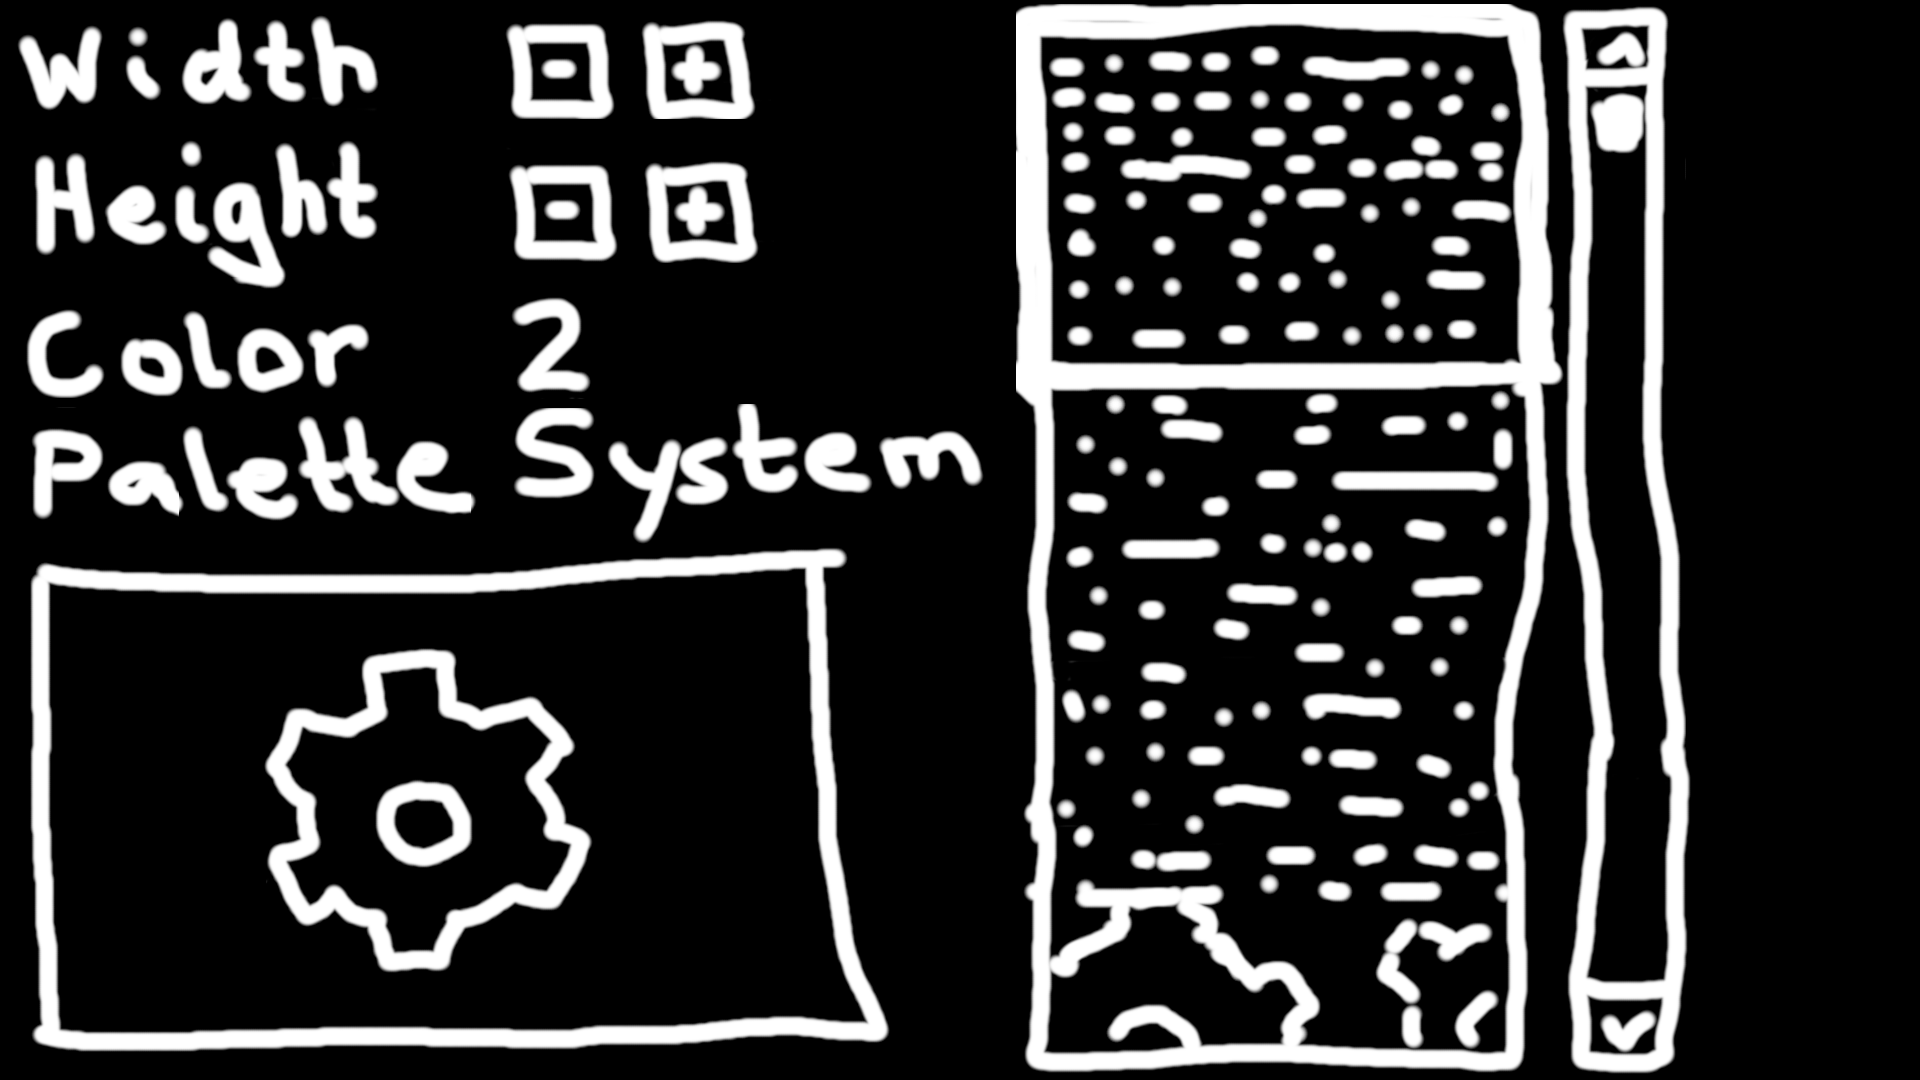
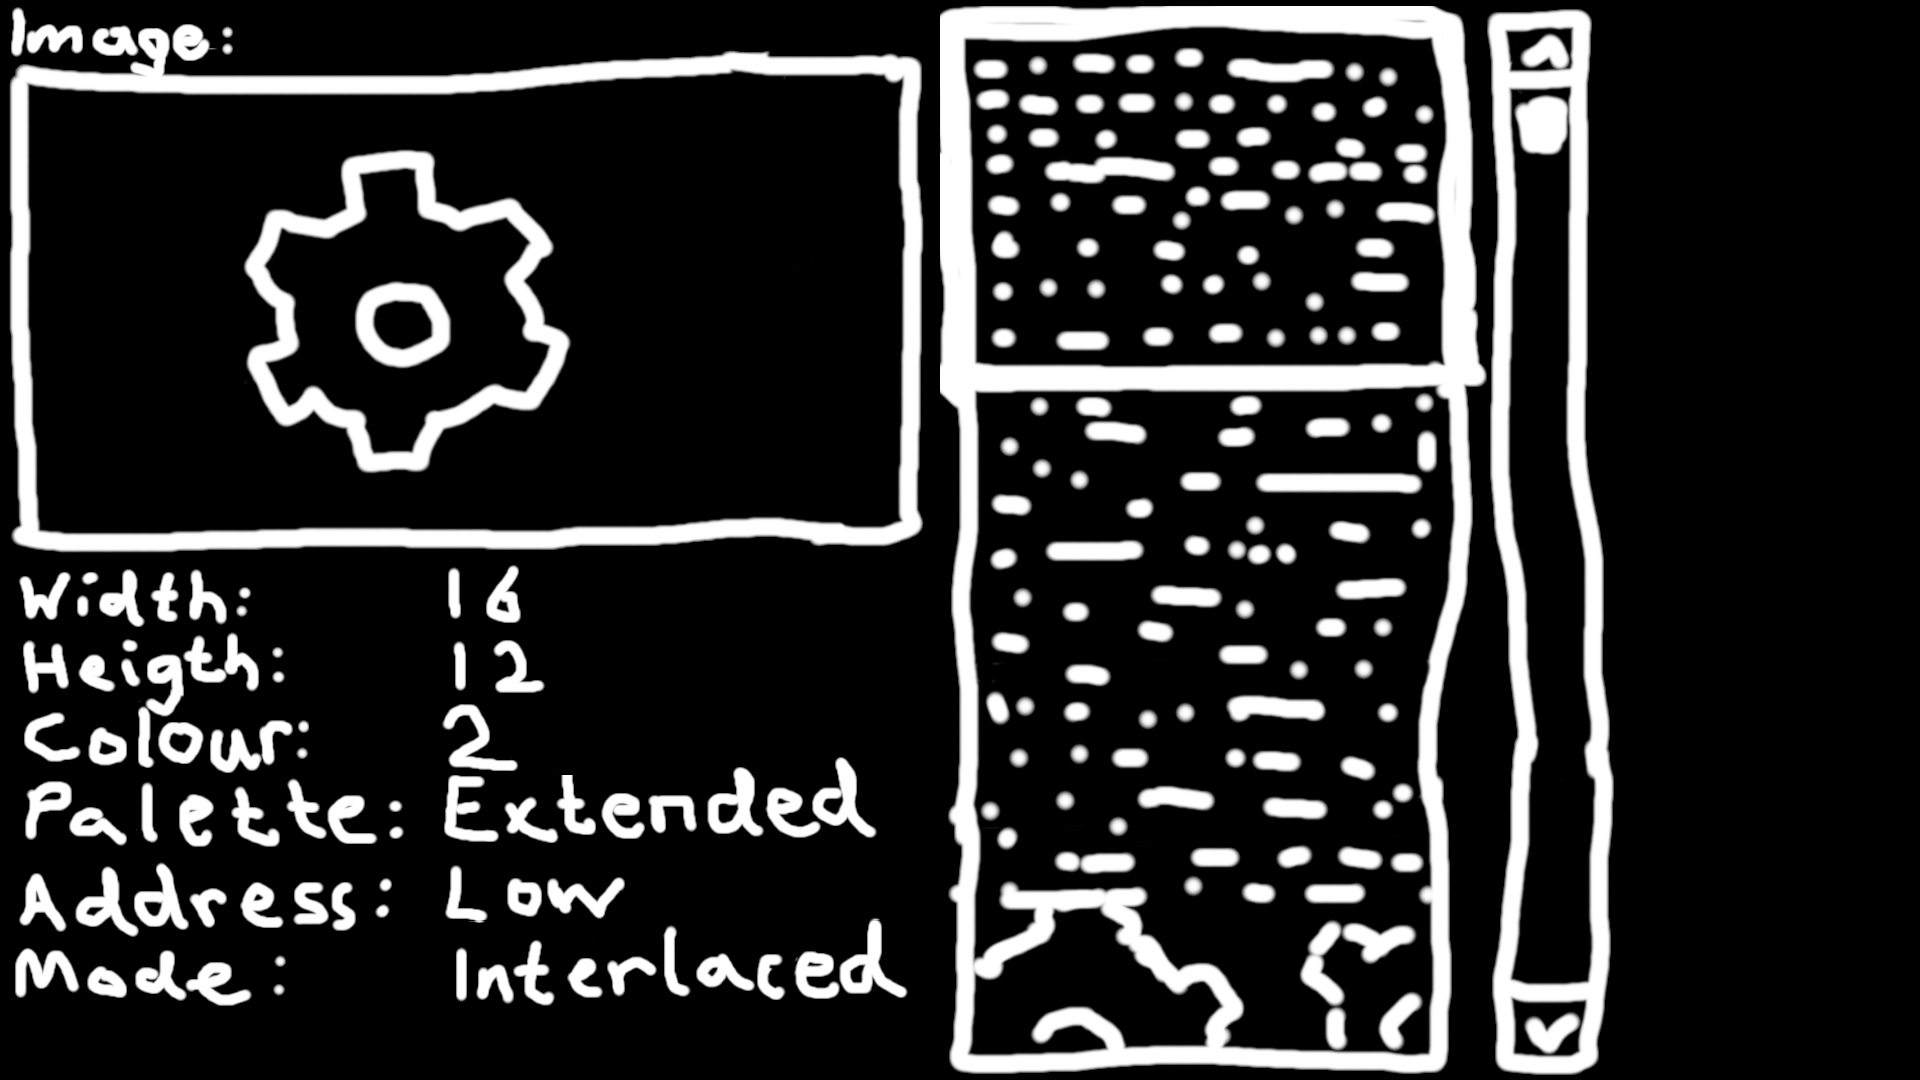
Changes for the minigame and supporting gui for rolling states that has image names more than one character long

diff --git a/RallyTheRobots/GUI/Common/ButtonArea.cs b/RallyTheRobots/GUI/Common/ButtonArea.cs
@@ -11,7 +11,6 @@ namespace RallyTheRobots
         internal InputChecker _inputChecker;
         protected ButtonAreaImage _buttonAreaImage = new ButtonAreaImage();
         protected RollingState _rollingState = new RollingState();
-        protected RollingState _rollingState2 = new RollingState();
         public Vector2 Position;
         public int SliderBorderLeft;
         public int SliderBorderRight;
@@ -56,26 +55,6 @@ namespace RallyTheRobots
         {
             _rollingState.PreviousState();
         }
-        public virtual void AddRollingState2(string rollingState)
-        {
-            _rollingState2.AddState(rollingState);
-        }
-        public virtual string GetCurrentRollingState2()
-        {
-            return _rollingState2.GetCurrentState();
-        }
-        public virtual void SetCurrentRollingState2(string rollingState)
-        {
-            _rollingState2.SetCurrentState(rollingState);
-        }
-        public virtual void NextRollingState2()
-        {
-            _rollingState2.NextState();
-        }
-        public virtual void PreviousRollingState2()
-        {
-            _rollingState2.PreviousState();
-        }
         public virtual void SetButtonSelectAction(ButtonAction buttonAction)
         {
             _buttonSelectAction = buttonAction;
@@ -96,23 +75,6 @@ namespace RallyTheRobots
             if (_buttonAreaImage.ReferencingRollingStateAsCharacterImage())
             {
                 foreach (string stateName in _rollingState.ToArray())
-                {
-                    foreach (char characterImageName in stateName)
-                    {
-                        _buttonAreaImage.AddRollingStatesAsImages(characterImageName.ToString());
-                    }
-                }
-            }
-            if (_buttonAreaImage.ReferencingRollingState2AsImage())
-            {
-                foreach (string stateName in _rollingState2.ToArray())
-                {
-                    _buttonAreaImage.AddRollingStatesAsImages(stateName);
-                }
-            }
-            if (_buttonAreaImage.ReferencingRollingState2AsCharacterImage())
-            {
-                foreach (string stateName in _rollingState2.ToArray())
                 {
                     foreach (char characterImageName in stateName)
                     {
@@ -162,7 +124,7 @@ namespace RallyTheRobots
         }
         public virtual void Draw(GameTime gameTime, GraphicsDevice graphicsDevice, GameSettings gameSettings, SpriteBatch spriteBatch, Vector2 offset)
         {
-            _buttonAreaImage.Draw(gameTime, graphicsDevice, gameSettings, spriteBatch, offset, Position, Visible, Disabled, Status, _rollingState.GetCurrentState(), _rollingState2.GetCurrentState(), _currentHorizontalValue, _currentVerticalValue, SliderBorderLeft, SliderBorderRight);
+            _buttonAreaImage.Draw(gameTime, graphicsDevice, gameSettings, spriteBatch, offset, Position, Visible, Disabled, Status, _rollingState.GetCurrentState(), _currentHorizontalValue, _currentVerticalValue, SliderBorderLeft, SliderBorderRight);
         }
         public virtual void ClearImages()
         {
@@ -174,7 +136,7 @@ namespace RallyTheRobots
         }
         public virtual Vector2 GetSize()
         {
-            return _buttonAreaImage.GetSize(Visible, Disabled, Status, _rollingState.GetCurrentState(), _rollingState2.GetCurrentState());
+            return _buttonAreaImage.GetSize(Visible, Disabled, Status, _rollingState.GetCurrentState());
         }
         public virtual Rectangle GetHorizontalSliderRectangle()
         {

diff --git a/RallyTheRobots/GUI/Common/ButtonAreaImage.cs b/RallyTheRobots/GUI/Common/ButtonAreaImage.cs
@@ -17,7 +17,7 @@ namespace RallyTheRobots.GUI.Common
         protected bool _focusedMissing = false;
         protected bool _selectedMissing = false;
 
-        public virtual void Draw(GameTime gameTime, GraphicsDevice graphicsDevice, GameSettings gameSettings, SpriteBatch spriteBatch, Vector2 offset, Vector2 position, bool visible, bool disabled, ButtonStatusEnum status, string currentRollingState, string currentRollingState2, int currentHorizontalValue, int currentVerticalValue, int borderLeft, int borderRight)
+        public virtual void Draw(GameTime gameTime, GraphicsDevice graphicsDevice, GameSettings gameSettings, SpriteBatch spriteBatch, Vector2 offset, Vector2 position, bool visible, bool disabled, ButtonStatusEnum status, string currentRollingState, int currentHorizontalValue, int currentVerticalValue, int borderLeft, int borderRight)
         {
             Vector2 imageOffset = new Vector2(0, 0);
             if (_imageList != null && _imageList.Count > 0)
@@ -36,7 +36,7 @@ namespace RallyTheRobots.GUI.Common
                 }
             }
         }
-        public virtual Vector2 GetSize(bool visible, bool disabled, ButtonStatusEnum status, string currentRollingState, string currentRollingState2)
+        public virtual Vector2 GetSize(bool visible, bool disabled, ButtonStatusEnum status, string currentRollingState)
         {
             Vector2 size = new Vector2(0, 0);
             if (_imageList != null && _imageList.Count > 0)
@@ -158,18 +158,6 @@ namespace RallyTheRobots.GUI.Common
             }
             return false;
         }
-        public virtual bool ReferencingRollingState2AsImage()
-        {
-            if (_imageList != null && _imageList.Count > 0)
-            {
-                foreach (ImageSettings image in _imageList)
-                {
-                    if (image.ImageNameType == ButtonAreaImageNameTypeEnum.RollingState2)
-                        return true;
-                }
-            }
-            return false;
-        }
         public virtual bool ReferencingRollingStateAsCharacterImage()
         {
             if (_imageList != null && _imageList.Count > 0)
@@ -177,18 +165,6 @@ namespace RallyTheRobots.GUI.Common
                 foreach (ImageSettings image in _imageList)
                 {
                     if (image.ImageNameType == ButtonAreaImageNameTypeEnum.RollingStateCharacter)
-                        return true;
-                }
-            }
-            return false;
-        }
-        public virtual bool ReferencingRollingState2AsCharacterImage()
-        {
-            if (_imageList != null && _imageList.Count > 0)
-            {
-                foreach (ImageSettings image in _imageList)
-                {
-                    if (image.ImageNameType == ButtonAreaImageNameTypeEnum.RollingState2Character)
                         return true;
                 }
             }

diff --git a/RallyTheRobots/GUI/BitmapMinigameScreen.cs b/RallyTheRobots/GUI/BitmapMinigameScreen.cs
@@ -1,4 +1,6 @@
-using RallyTheRobots.GUI.Common;
+using Microsoft.Xna.Framework;
+using Microsoft.Xna.Framework.Graphics;
+using RallyTheRobots.GUI.Common;
 using System;
 using System.Collections.Generic;
 using System.Linq;
@@ -9,11 +11,35 @@ namespace RallyTheRobots.GUI
 {
     public class BitmapMinigameScreen : Screen
     {
+        protected ButtonArea _widthButton = new ButtonArea();
         public override void Initialize()
         {
             AddBackground("bitmap_minigame");
+
+            _widthButton.AddRollingState("8");
+            _widthButton.AddRollingState("16");
+            _widthButton.AddRollingState("24");
+            _widthButton.AddRollingState("32");
+            _widthButton.AddRollingState("40");
+            _widthButton.AddRollingState("48");
+            _widthButton.AddRollingState("56");
+            _widthButton.AddRollingState("64");
+            _widthButton.AddImage("width");
+            _widthButton.AddImage("width_value", ButtonAreaImageNameTypeEnum.RollingStateCharacter);
+            _widthButton.Position = new Vector2(10, 570);
+            _widthButton.SetButtonSelectAction(new NextRollingStateButtonAction(_widthButton));
+            _widthButton.SetButtonAlternateSelectAction(new PreviousRollingStateButtonAction(_widthButton));
+            AddButtonArea(_widthButton);
+
             ScreenChangeOnPauseKey(_screenManager.GetScreen<PauseMenuScreen>());
+            SetFocusedButtonArea(_widthButton);
             base.Initialize();
+        }
+        public override void EnterScreen(GameTime gameTime, GameSettings gameSettings, Screen oldScreen)
+        {
+            _widthButton.SetCurrentRollingState("8");
+
+            base.EnterScreen(gameTime, gameSettings, oldScreen);
         }
     }
 }

diff --git a/RallyTheRobots/GUI/Common/PreviousRollingStateButtonAction.cs b/RallyTheRobots/GUI/Common/PreviousRollingStateButtonAction.cs
@@ -5,18 +5,13 @@ namespace RallyTheRobots.GUI.Common
     public class PreviousRollingStateButtonAction : ButtonAction
     {
         ButtonArea _buttonArea;
-        bool _isRollingState2;
-        public PreviousRollingStateButtonAction(ButtonArea buttonArea, bool isRollingState2 = false)
+        public PreviousRollingStateButtonAction(ButtonArea buttonArea)
         {
             _buttonArea = buttonArea;
-            _isRollingState2 = isRollingState2;
         }
         public override void DoAction(ScreenManager manager, Screen screen, GameTime gameTime, GameSettings gameSettings, GameStatus gameStatus)
         {
-            if (_isRollingState2)
-                _buttonArea.PreviousRollingState2();
-            else
-                _buttonArea.PreviousRollingState2();
+            _buttonArea.PreviousRollingState();
         }
     }
 }

diff --git a/RallyTheRobots/GUI/Common/NextRollingStateButtonAction.cs b/RallyTheRobots/GUI/Common/NextRollingStateButtonAction.cs
@@ -10,18 +10,13 @@ namespace RallyTheRobots.GUI.Common
     public class NextRollingStateButtonAction : ButtonAction
     {
         ButtonArea _buttonArea;
-        bool _isRollingState2;
-        public NextRollingStateButtonAction(ButtonArea buttonArea, bool isRollingState2 = false)
+        public NextRollingStateButtonAction(ButtonArea buttonArea)
         {
             _buttonArea = buttonArea;
-            _isRollingState2 = isRollingState2;
         }
         public override void DoAction(ScreenManager manager, Screen screen, GameTime gameTime, GameSettings gameSettings, GameStatus gameStatus)
         {
-            if (_isRollingState2)
-                _buttonArea.NextRollingState2();
-            else
-                _buttonArea.NextRollingState();
+            _buttonArea.NextRollingState();
         }
     }
 }

diff --git a/RallyTheRobots/GUI/GameScreen.cs b/RallyTheRobots/GUI/GameScreen.cs
@@ -12,7 +12,7 @@ namespace RallyTheRobots.GUI
         public override void Initialize()
         {
             AddBackground("ingame");
-            ScreenChangeOnTimeout(_screenManager.GetScreen<BitmapMinigameScreen>(), 7.0);
+            ScreenChangeOnTimeout(_screenManager.GetScreen<BitmapMinigameScreen>(), 3.0);
             ScreenChangeOnPauseKey(_screenManager.GetScreen<PauseMenuScreen>());
             base.Initialize();
         }

diff --git a/RallyTheRobots/GUI/Common/ButtonAreaImageNameTypeEnum.cs b/RallyTheRobots/GUI/Common/ButtonAreaImageNameTypeEnum.cs
@@ -6,5 +6,5 @@ using System.Threading.Tasks;
 
 namespace RallyTheRobots.GUI.Common
 {
-    public enum ButtonAreaImageNameTypeEnum { Actual, Character, RollingState, RollingStateCharacter, RollingState2, RollingState2Character }
+    public enum ButtonAreaImageNameTypeEnum { Actual, Character, RollingState, RollingStateCharacter }
 }
